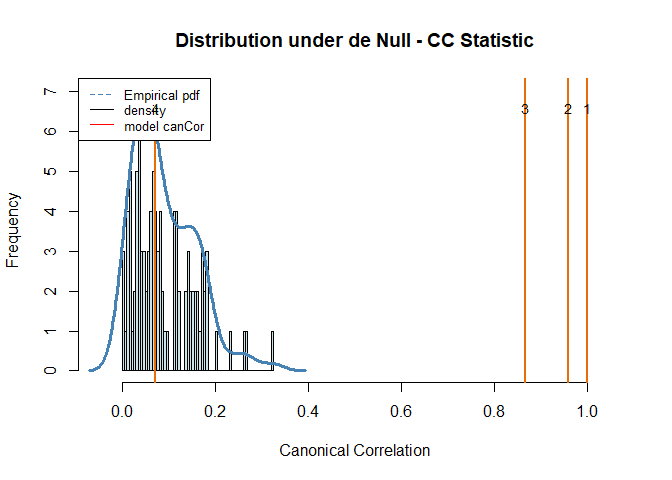
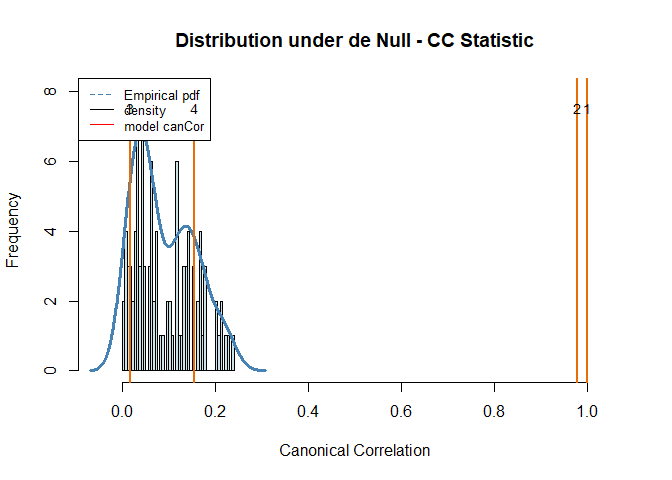
change description and links

diff --git a/README.md b/README.md
@@ -6,9 +6,19 @@
 <!-- badges: start -->
 <!-- badges: end -->
 
-The goal of toscca is to find sparse canonical vectors maximally
-correlating two data sets. The number of nonzero variables must be
-stated beforehand. The descriptive algorithm can be seen below.
+## Overview
+
+toscca is an R package to perform Thresholded Ordered Sparse Canonical
+Correlation Analysis (TOSCCA), descibed in [(Senar N. et
+al. nd)](https://arxiv.org/abs/2310.02169) for the analysis and
+integration of two datasets, at least one of which is high-dimensional.
+TOSCCA is an extension of the sparse CCA method based on
+soft-thresholding that produces near-orthogonal components, allows for
+browsing over various sparsity levels, and permutation-based hypothesis
+testing. Our soft-thresholding approach avoids tuning of a penalty
+parameter, which is computationally burdensome and may render
+unintelligible results. In addition, unlike alternative approaches, our
+method is less dependent on the initialisation.
 
 <img src="https://github.com/nuria-sv/toscca/blob/master/algorithm.png" height="380" width="700" align="center">
 
@@ -58,7 +68,7 @@ cca_toscca  = toscca::toscca(X, Y, nonz_x, nonz_y, K, init, combination = FALSE)
 #>  For component K =  1 : 
 #> | . . . . . . . . . . . . . . . . . . . . . . . . . . . . . . . . . . . . . .  | 100 %          Common convergence error: 0 & Iterations: 4 
 #> k-fold cv max. cancor 
-#>             0.9999178 
+#>             0.9999163 
 #> 
 #>  ........................................ 
 #>  # nonzero A: 100
@@ -71,9 +81,9 @@ cca_toscca  = toscca::toscca(X, Y, nonz_x, nonz_y, K, init, combination = FALSE)
     #> 
     #> __________________________________________ 
     #>  For component K =  2 : 
-    #> | . . . . . . . . . . . . . . . . . . . . . . . . . . . . . . . . . . . . . .  | 100 %          Common convergence error: 0 & Iterations: 13 
+    #> | . . . . . . . . . . . . . . . . . . . . . . . . . . . . . . . . . . . . . .  | 100 %          Common convergence error: 0 & Iterations: 11 
     #> k-fold cv max. cancor 
-    #>             0.9572062 
+    #>             0.9774014 
     #> 
     #>  ........................................ 
     #>  # nonzero A: 100
@@ -85,9 +95,9 @@ cca_toscca  = toscca::toscca(X, Y, nonz_x, nonz_y, K, init, combination = FALSE)
     #> 
     #> __________________________________________ 
     #>  For component K =  3 : 
-    #> | . . . . . . . . . . . . . . . . . . . . . . . . . . . . . . . . . . . . . .  | 100 %          Common convergence error: 0.10645 & Iterations: 21 
+    #> | . . . . . . . . . . . . . . . . . . . . . . . . . . . . . . . . . . . . . .  | 100 %          Common convergence error: 0.00034 & Iterations: 21 
     #> k-fold cv max. cancor 
-    #>             0.8656789 
+    #>            0.01692739 
     #> 
     #>  ........................................ 
     #>  # nonzero A: 100
@@ -99,9 +109,9 @@ cca_toscca  = toscca::toscca(X, Y, nonz_x, nonz_y, K, init, combination = FALSE)
     #> 
     #> __________________________________________ 
     #>  For component K =  4 : 
-    #> | . . . . . . . . . . . . . . . . . . . . . . . . . . . . . . . . . . . . . .  | 100 %          Common convergence error: 0.00521 & Iterations: 21 
+    #> | . . . . . . . . . . . . . . . . . . . . . . . . . . . . . . . . . . . . . .  | 100 %          Common convergence error: 0.01612 & Iterations: 21 
     #> k-fold cv max. cancor 
-    #>            0.07255689 
+    #>             0.1546782 
     #> 
     #>  ........................................ 
     #>  # nonzero A: 100
@@ -124,8 +134,8 @@ perm_toscca = perm.toscca(X, Y, nonz_x, nonz_y, K = K, init, draws = 100, cancor
     #> Empirical p-values:
     #> 0
     #> 0
-    #> 0
-    #> 0.49
+    #> 0.89
+    #> 0.18
     #> NULL
 
 We repeat the analysis using the Penalised Matrix Analysis approach from
@@ -270,22 +280,22 @@ third_fourth
 PMA
 </td>
 <td style="text-align:right;">
+0.7209013
+</td>
+<td style="text-align:right;">
+0.1783154
+</td>
+<td style="text-align:right;">
+0.0078330
+</td>
+<td style="text-align:right;">
+-0.0101011
+</td>
+<td style="text-align:right;">
 -0.0101010
 </td>
 <td style="text-align:right;">
-0.7856425
-</td>
-<td style="text-align:right;">
-0.1160291
-</td>
-<td style="text-align:right;">
-0.158146
-</td>
-<td style="text-align:right;">
-0.3697112
-</td>
-<td style="text-align:right;">
--0.0101009
+-0.0101010
 </td>
 </tr>
 <tr>
@@ -293,22 +303,22 @@ PMA
 TOSCCA
 </td>
 <td style="text-align:right;">
--0.0184603
+-0.0145025
 </td>
 <td style="text-align:right;">
-0.0117927
+-0.0134124
 </td>
 <td style="text-align:right;">
-0.0080481
+-0.0072027
 </td>
 <td style="text-align:right;">
-0.004838
+-0.0060141
 </td>
 <td style="text-align:right;">
--0.0017170
+-0.0014893
 </td>
 <td style="text-align:right;">
--0.0026917
+0.0518036
 </td>
 </tr>
 </tbody>
@@ -338,16 +348,16 @@ Autocorrelation between components
 PMA
 </td>
 <td style="text-align:right;">
-0.0019883
+0.0015574
 </td>
 <td style="text-align:right;">
-0.0078720
+0.0017387
 </td>
 <td style="text-align:right;">
-0.0037968
+0.0032143
 </td>
 <td style="text-align:right;">
-0.0059664
+0.0056692
 </td>
 </tr>
 <tr>
@@ -355,16 +365,16 @@ PMA
 TOSCCA
 </td>
 <td style="text-align:right;">
-0.0074850
+0.0053155
 </td>
 <td style="text-align:right;">
-0.0088135
+0.0069711
 </td>
 <td style="text-align:right;">
-0.0094978
+0.0076497
 </td>
 <td style="text-align:right;">
-0.0099660
+0.0079886
 </td>
 </tr>
 </tbody>
